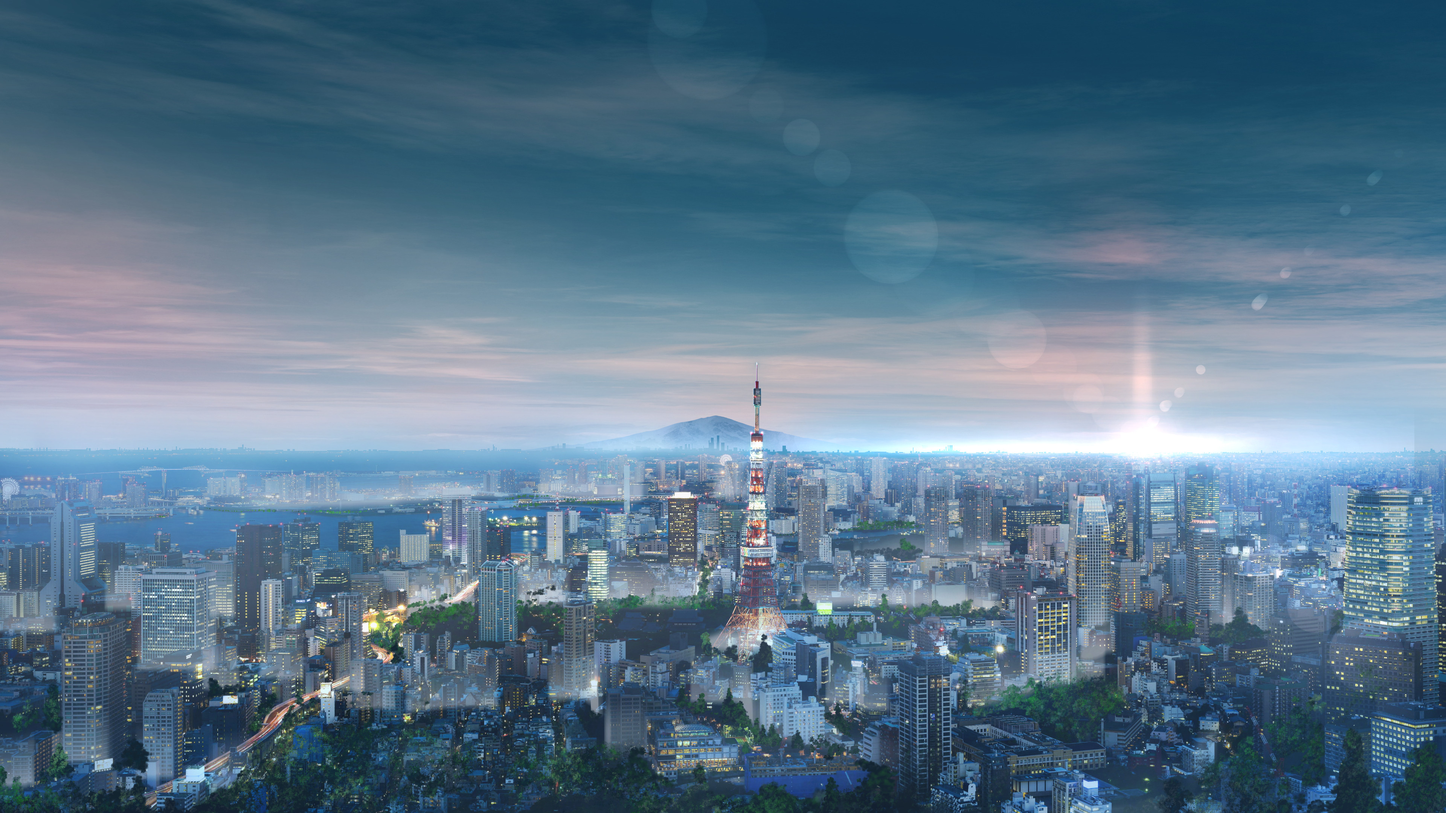
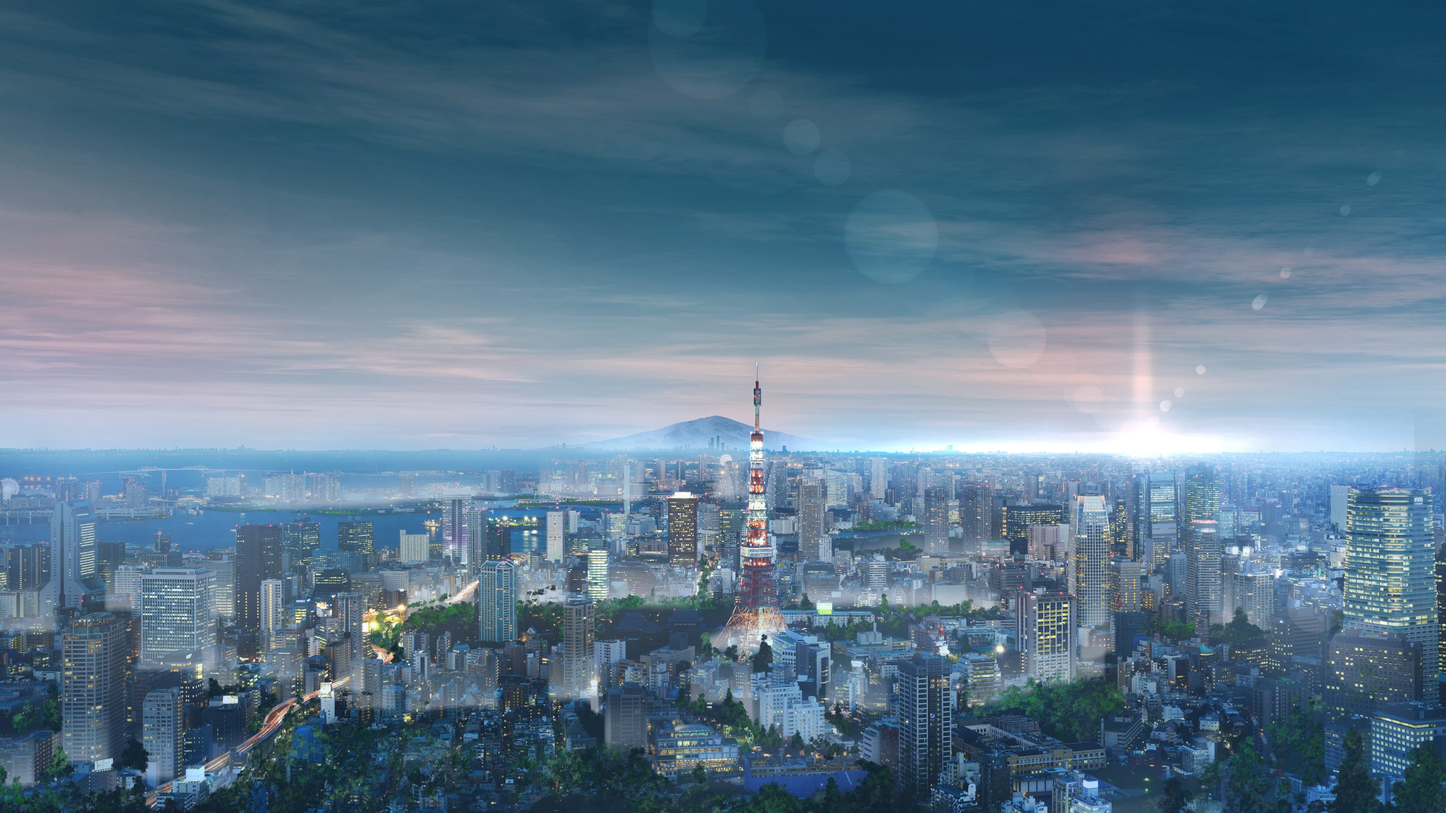
Added README + lowered wallpaper size

Changed region(s): [[0.9375, 0.7134, 0.9688, 0.7444], [0.25, 0.7444, 0.2812, 0.7755]]

diff --git a/src/pages/index.tsx b/src/pages/index.tsx
@@ -446,7 +446,7 @@ export default function HomePage() {
                 {/* Screensaver */}
                 {!videoLoaded && (
                     <Image
-                        src="/assets/wallpaper.jpg"
+                        src="/assets/wallpaper_quality_85.jpg"
                         alt="Video placeholder"
                         priority
                         width={1920}

diff --git a/README.md b/README.md
@@ -1,0 +1,1 @@
+![](/public/assets/wallpaper_preview.jpg)
